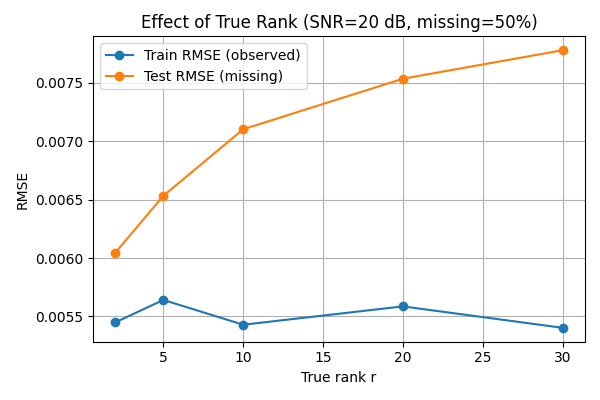
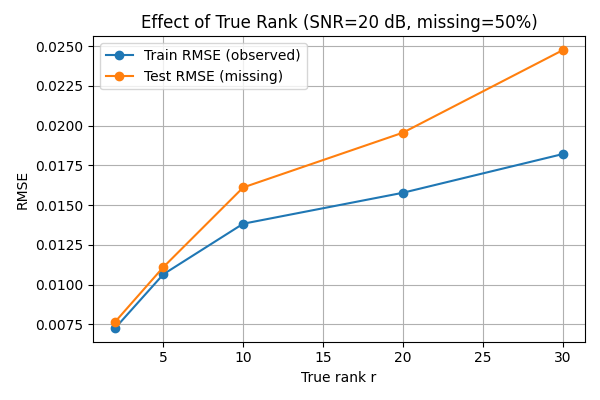
Frobenius norm corrected

diff --git a/main.py b/main.py
@@ -41,9 +41,9 @@ def softImpute_fallback(Y, reg=1.0, num_iterations=200, tolerance=1e-5, verbose=
         # fill missing with previous estimate
         Y_filled = np.where(mask, Y, X_old)
         X_new = _svd_shrink(Y_filled, reg)
-        # convergence check
-        denom = np.linalg.norm(X_old) + 1e-12
-        rel = np.linalg.norm(X_new - X_old) / denom
+        # convergence check using Frobenius norm
+        denom = np.linalg.norm(X_old, ord='fro') + 1e-12
+        rel = np.linalg.norm(X_new - X_old, ord='fro') / denom
         if verbose:
             print(f"[SoftImpute] it={it} rel={rel:.3e}")
         if rel < tolerance:
@@ -91,7 +91,7 @@ cross_validate_lambda = (
         X = (X - X.min()) / (X.max() - X.min() + 1e-12)
     return X
 '''
-def low_rank_matrix(m, n, r, rng=None, normalize=True):
+'''def low_rank_matrix(m, n, r, rng=None, normalize=True):
     """Generate X = U V^T with controllable true rank r."""
     rng = np.random.default_rng(None if rng is None else rng)
     U = rng.standard_normal((m, r))
@@ -101,14 +101,27 @@ def low_rank_matrix(m, n, r, rng=None, normalize=True):
         # Normalize so that the largest singular value = 1
         norm = np.linalg.norm(X, 'fro')
         X = X / norm
+    return X'''
+# REPLACE low_rank_matrix in main.py
+def low_rank_matrix(m, n, r, rng=None, normalize=True):
+    rng = np.random.default_rng(None if rng is None else rng)
+    U = rng.standard_normal((m, r))
+    V = rng.standard_normal((n, r))
+    X = U @ V.T
+    if normalize:
+        # Normalize so that the largest singular value = 1 (more reasonable scale)
+        s_max = np.linalg.svd(X, compute_uv=False)[0]
+        X = X / (s_max + 1e-12)
     return X
 
 def add_gaussian_noise(X, snr_db, rng=None):
     """
     Add Gaussian noise to achieve target SNR in dB: 10*log10(P_signal/P_noise) = snr_db
+    Uses Frobenius norm for signal power calculation
     """
     rng = np.random.default_rng(None if rng is None else rng)
-    sig_pow = np.mean((X - X.mean()) ** 2)
+    # Use Frobenius norm for signal power calculation (per-element power)
+    sig_pow = (np.linalg.norm(X, 'fro') ** 2) / X.size
     noise_pow = sig_pow / (10 ** (snr_db / 10.0))
     noise = rng.normal(0.0, np.sqrt(noise_pow), size=X.shape)
     Y = X + noise
@@ -150,7 +163,7 @@ def experiment_snr(
         lam = pick_lambda(
             Y, lam_grid, holdout_fraction=0.1, num_iterations=200, tolerance=1e-5, random_state=42
         )
-        Xhat = softImpute(Y, reg=lam, num_iterations=200, tolerance=1e-5)
+        Xhat = softImpute(Y, reg=lam, num_iterations=200, tolerance=1e-5, clip_output=False)
 
         train_rmse = rmse_on_mask(X, Xhat, obs_mask)              # on observed entries
         test_rmse  = rmse_on_mask(X, Xhat, ~obs_mask)             # on missing entries
@@ -188,7 +201,7 @@ def experiment_missingness(
         lam = pick_lambda(
             Y, lam_grid, holdout_fraction=0.1, num_iterations=200, tolerance=1e-5, random_state=7
         )
-        Xhat = softImpute(Y, reg=lam, num_iterations=200, tolerance=1e-5)
+        Xhat = softImpute(Y, reg=lam, num_iterations=200, tolerance=1e-5, clip_output=False)
         train_rmse = rmse_on_mask(X, Xhat, obs_mask)
         test_rmse  = rmse_on_mask(X, Xhat, ~obs_mask)
         results.append((mf, train_rmse, test_rmse))
@@ -224,7 +237,7 @@ def experiment_true_rank(
         lam = pick_lambda(
             Y, lam_grid, holdout_fraction=0.1, num_iterations=200, tolerance=1e-5, random_state=11
         )
-        Xhat = softImpute(Y, reg=lam, num_iterations=200, tolerance=1e-5)
+        Xhat = softImpute(Y, reg=lam, num_iterations=200, tolerance=1e-5, clip_output=False)
         train_rmse = rmse_on_mask(X, Xhat, obs_mask)
         test_rmse  = rmse_on_mask(X, Xhat, ~obs_mask)
         results.append((r, train_rmse, test_rmse))
@@ -262,7 +275,7 @@ def hardImpute(Y, rank=10, num_iterations=200, tolerance=1e-5, verbose=False):
         U, s, VT = np.linalg.svd(Y_filled, full_matrices=False)
         k = min(rank, len(s))
         X_new = (U[:, :k] * s[:k]) @ VT[:k, :]
-        rel = np.linalg.norm(X_new - X_old) / (np.linalg.norm(X_old) + 1e-12)
+        rel = np.linalg.norm(X_new - X_old, ord='fro') / (np.linalg.norm(X_old, ord='fro') + 1e-12)
         if verbose:
             print(f"[HardImpute] it={it} rel={rel:.3e}")
         if rel < tolerance:
@@ -325,7 +338,7 @@ def experiment_grid_soft(m=96, n=96, r_list=(2,5,10,20), snr_list=(10,15,20,30),
         Xn = add_gaussian_noise(X, snr_db=snr_db, rng=rng)
         Y, obs_mask = apply_missingness(Xn, missing_fraction=miss, rng=rng)
         lam = pick_lambda(Y, lam_grid, holdout_fraction=0.1, num_iterations=200, tolerance=1e-5, random_state=7)
-        Xhat = softImpute(Y, reg=lam, num_iterations=200, tolerance=1e-5)
+        Xhat = softImpute(Y, reg=lam, num_iterations=200, tolerance=1e-5, clip_output=False)
         test_rmse = rmse_on_mask(X, Xhat, ~obs_mask)
         return test_rmse
 
@@ -414,7 +427,7 @@ def compare_soft_vs_hard(r=10, snr_db=20, missing_fraction=0.6, k_grid=None, lam
 
     # SoftImpute with CV λ
     lam = pick_lambda(Y_soft, lam_grid, holdout_fraction=0.1, num_iterations=200, tolerance=1e-5, random_state=13)
-    X_soft = softImpute(Y_soft, reg=lam, num_iterations=200, tolerance=1e-5)
+    X_soft = softImpute(Y_soft, reg=lam, num_iterations=200, tolerance=1e-5, clip_output=False)
     soft_test = rmse_on_mask(X, X_soft, ~obs_mask)
 
     # HardImpute with CV k
@@ -450,8 +463,8 @@ def visualize_soft_vs_hard_image(img_path="image.jpg", missing_fraction=0.5,
     img = img / 255.0
     print("Loaded image:", img.shape)
 
-    # --- Add Gaussian noise (based on SNR) ---
-    sig_pow = np.mean((img - img.mean()) ** 2)
+    # --- Add Gaussian noise (based on SNR) using Frobenius norm ---
+    sig_pow = (np.linalg.norm(img, 'fro') ** 2) / img.size
     noise_pow = sig_pow / (10 ** (snr_db / 10.0))
     noise = rng.normal(0.0, np.sqrt(noise_pow), size=img.shape)
     img_noisy = np.clip(img + noise, 0.0, 1.0)
@@ -464,7 +477,7 @@ def visualize_soft_vs_hard_image(img_path="image.jpg", missing_fraction=0.5,
     # --- SoftImpute reconstruction ---
     lam_best = pick_lambda(img_missing, lam_grid, holdout_fraction=0.1,
                            num_iterations=200, tolerance=1e-5, random_state=7)
-    img_soft = softImpute(img_missing, reg=lam_best, num_iterations=200, tolerance=1e-5)
+    img_soft = softImpute(img_missing, reg=lam_best, num_iterations=200, tolerance=1e-5, clip_output=False)
 
     # --- HardImpute reconstruction ---
     best_k, _ = cross_validate_rank(img_missing, k_grid, holdout_fraction=0.1,
@@ -524,11 +537,11 @@ def experiment_block_missingness(r=10, snr_db=20, frac_rows=0.2, frac_cols=0.2, 
 
     # CV λ and reconstruct
     lam_mar = pick_lambda(Y_mar, lam_grid, holdout_fraction=0.1, num_iterations=200, tolerance=1e-5, random_state=31)
-    X_mar = softImpute(Y_mar, reg=lam_mar, num_iterations=200, tolerance=1e-5)
+    X_mar = softImpute(Y_mar, reg=lam_mar, num_iterations=200, tolerance=1e-5, clip_output=False)
     mar_test = rmse_on_mask(X, X_mar, ~obs_mar)
 
     lam_blk = pick_lambda(Y_blk, lam_grid, holdout_fraction=0.1, num_iterations=200, tolerance=1e-5, random_state=32)
-    X_blk = softImpute(Y_blk, reg=lam_blk, num_iterations=200, tolerance=1e-5)
+    X_blk = softImpute(Y_blk, reg=lam_blk, num_iterations=200, tolerance=1e-5, clip_output=False)
     blk_test = rmse_on_mask(X, X_blk, ~obs_blk)
 
     # Plot
@@ -561,8 +574,8 @@ def visualize_soft_vs_hard_image(img_path="image.jpg", missing_fraction=0.5,
     img = img / 255.0
     print("Loaded image:", img.shape)
 
-    # --- Add Gaussian noise (controlled by SNR) ---
-    sig_pow = np.mean((img - img.mean()) ** 2)
+    # --- Add Gaussian noise (controlled by SNR) using Frobenius norm ---
+    sig_pow = (np.linalg.norm(img, 'fro') ** 2) / img.size
     noise_pow = sig_pow / (10 ** (snr_db / 10.0))
     noise = rng.normal(0.0, np.sqrt(noise_pow), size=img.shape)
     img_noisy = np.clip(img + noise, 0.0, 1.0)
@@ -578,7 +591,7 @@ def visualize_soft_vs_hard_image(img_path="image.jpg", missing_fraction=0.5,
                            num_iterations=200, tolerance=1e-5,
                            random_state=7)
     img_soft = softImpute(img_missing, reg=lam_best,
-                          num_iterations=200, tolerance=1e-5)
+                          num_iterations=200, tolerance=1e-5, clip_output=False)
 
     # --- HardImpute reconstruction ---
     best_k, _ = cross_validate_rank(img_missing, k_grid,

diff --git a/utils.py b/utils.py
@@ -1,3 +1,15 @@
+# ADD near the top of utils.py
+def nrmse(true, pred):
+    true = np.asarray(true, float); pred = np.asarray(pred, float)
+    num = np.linalg.norm(true - pred, 'fro')
+    den = np.linalg.norm(true, 'fro') + 1e-12
+    return num / den
+
+def psnr(true, pred):
+    true = np.asarray(true, float); pred = np.asarray(pred, float)
+    mse = np.mean((true - pred) ** 2)
+    return 10.0 * np.log10(1.0 / (mse + 1e-12))  # assumes data in [0,1]
+
 def rmse(true, pred):
     """Compute Root Mean Squared Error, ignoring NaNs in both arrays."""
     mask = ~np.isnan(true) & ~np.isnan(pred)
@@ -9,7 +21,8 @@ def rmse(true, pred):
 import numpy as np
 from numpy.linalg import svd
 
-def softImpute(Y, reg, num_iterations=200, tolerance=1e-5):
+# CHANGED signature and end of softImpute
+def softImpute(Y, reg, num_iterations=200, tolerance=1e-5, clip_output=False):
     """
     SoftImpute (simple NumPy version).
     Y: observed matrix with missing entries encoded as np.nan
@@ -53,7 +66,10 @@ def softImpute(Y, reg, num_iterations=200, tolerance=1e-5):
 
     # Final imputation: observed entries from Y, missing replaced by X_old
     X_completed = np.nan_to_num(P_Y + np.where(mask, 0.0, X_old), nan=0.0)
-    X_completed = np.clip(X_completed, np.nanmin(Y), np.nanmax(Y))
+
+    if clip_output:
+        # only clip for display, not for metrics/experiments
+        X_completed = np.clip(X_completed, 0.0, 1.0)
     return X_completed
 
 
@@ -100,50 +116,30 @@ def cross_validate_lambda(Y, lambdas, holdout_fraction=0.1, num_iterations=100, 
     return best_lambda, results
 
 
-def add_noise_and_missing(img, missing_fraction=0.3, snr_db=20, random_state=None):
-    """
-    Add Gaussian noise and random missing values to a grayscale image.
-
-    Parameters
-    ----------
-    img : np.ndarray
-        2D grayscale image with values in [0,1] or 0-255 (will be normalized automatically)
-    missing_fraction : float
-        Fraction of pixels to remove (set as NaN)
-    snr_db : float
-        Desired signal-to-noise ratio in decibels
-    random_state : int or None
-        Random seed for reproducibility
-
-    Returns
-    -------
-    img_noisy : np.ndarray
-        Image with missing values (NaN) and Gaussian noise added
-    mask : np.ndarray
-        Boolean array where True = observed pixels, False = missing
-    """
+# REPLACED add_noise_and_missing 
+def add_noise_and_missing(img, missing_fraction=0.3, snr_db=20, random_state=None, clip_for_display=True):
     rng = np.random.default_rng(random_state)
 
-    # Ensure float type and normalize to 0-1
     img = img.astype(float)
     if img.max() > 1.0:
         img = img / 255.0
 
-    # Step 1: Random missing values
+    # Random missing
     mask = rng.random(img.shape) > missing_fraction
     img_missing = img.copy()
     img_missing[~mask] = np.nan
 
-    # Step 2: Add Gaussian noise to observed pixels
-    snr_linear = 10 ** (snr_db / 10)
-    signal_power = np.nanvar(img_missing)
-    noise_std = np.sqrt(signal_power / snr_linear)
-    noise = rng.normal(0, noise_std, size=img.shape)
+    # Gaussian noise based on Frobenius norm power per entry (||X||_F^2 / (mn))
+    signal_power = (np.linalg.norm(img, 'fro') ** 2) / img.size
+
+    noise_power = signal_power / (10 ** (snr_db / 10.0))
+    noise = rng.normal(0.0, np.sqrt(noise_power), size=img.shape)
 
     img_noisy = img_missing.copy()
-    img_noisy[mask] += noise[mask]
+    img_noisy[mask] = img_noisy[mask] + noise[mask]
 
-    # Clip values to [0,1]
-    img_noisy = np.clip(img_noisy, 0.0, 1.0)
+    # IMPORTANT: no clipping for numeric experiments; allow caller to clip only for display
+    if clip_for_display:
+        img_noisy = np.clip(img_noisy, 0.0, 1.0)
 
     return img_noisy, mask
